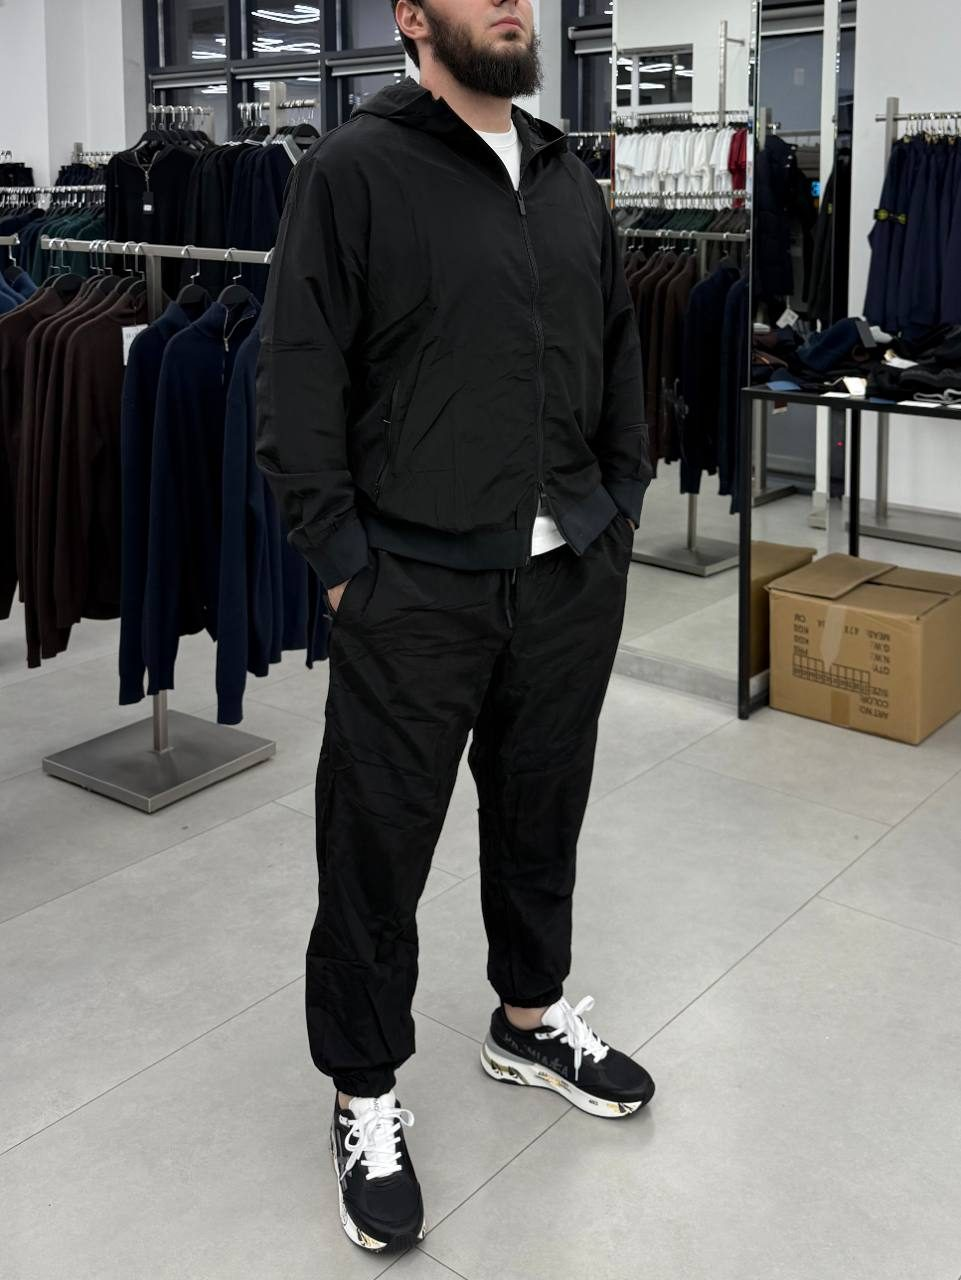
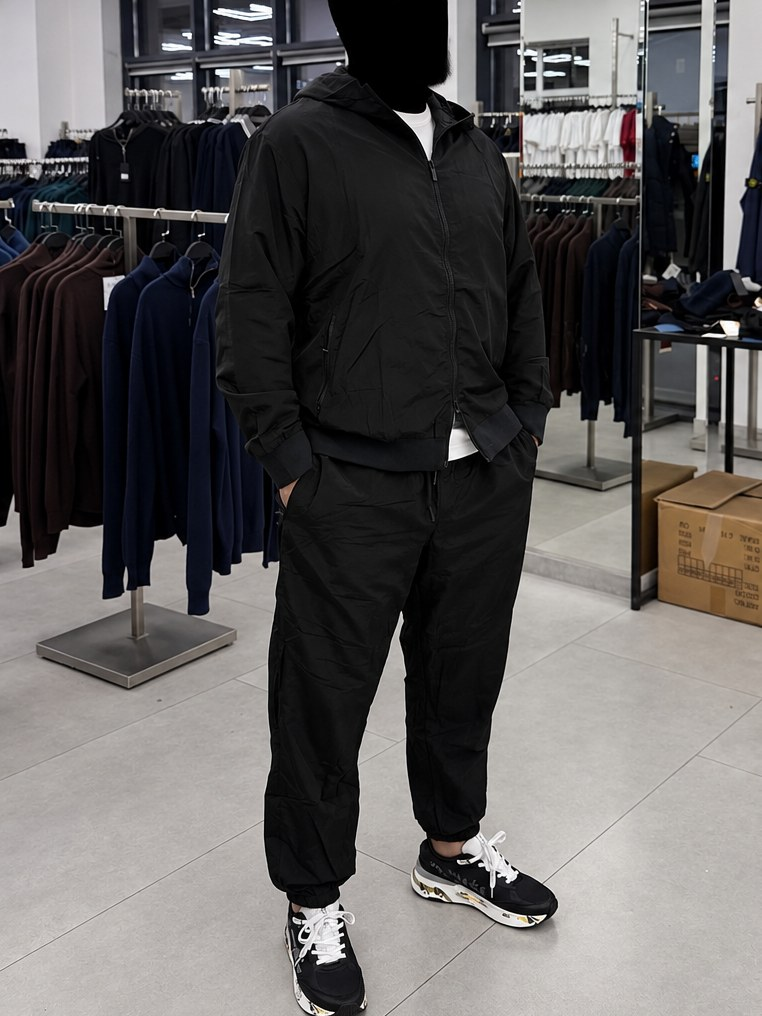
Орнамент: картинка на весь первый экран, плавный переход в ковёр; новые фото ветровок
Claude-Session: https://claude.ai/code/session_019e3KwqQKVdkAj9pLUxRiRK

diff --git a/index.html b/index.html
@@ -335,14 +335,27 @@ html.orn.orn-dark{background:#0b0b0d}
 /* всё, что ниже примерочной, лежит на узоре — светлый текст */
 /* сцена (стиль «Орнамент»): камера по общему кадру */
 .scene{display:none}
-html.orn .scene{display:block;margin-top:24px}
-.sc-stage{position:relative;max-width:min(520px,calc(72dvh * 3 / 4));margin:0 auto;aspect-ratio:3/4;border-radius:22px;overflow:hidden;background:#1a1a1c;touch-action:pan-y;user-select:none;-webkit-user-select:none;cursor:grab;isolation:isolate;box-shadow:0 20px 60px rgba(0,0,0,.45)}
+html.orn body{position:relative}
+html.orn .scene{display:block;position:absolute;left:0;right:0;top:0;height:calc(100svh + var(--fade));z-index:0;--fade:240px}
+html.orn .sc-space{height:var(--sp,60vh)}
+html.orn .demo,html.orn .install,html.orn header,html.orn .styles,html.orn .hero{position:relative;z-index:2}
+html.orn .demo{background:rgba(0,0,0,.25);color:rgba(255,255,255,.75);border-bottom-color:rgba(255,255,255,.12);backdrop-filter:blur(8px);-webkit-backdrop-filter:blur(8px)}
+html.orn .install{background:rgba(0,0,0,.22);backdrop-filter:blur(10px);-webkit-backdrop-filter:blur(10px)}
+html.orn .install,html.orn header,html.orn .hero{--ink:#fff;--mute:rgba(255,255,255,.82);--soft:rgba(255,255,255,.16);color:#fff}
+html.orn .install .get{background:#fff;color:#111}
+html.orn .badge{background:#fff;color:#111}
+html.orn .hero,html.orn .styles{pointer-events:none}html.orn .styles button{pointer-events:auto}
+html.orn .hero h1,html.orn .hero p{text-shadow:0 2px 20px rgba(0,0,0,.35)}
+html.orn .seg{background:rgba(0,0,0,.25);backdrop-filter:blur(10px);-webkit-backdrop-filter:blur(10px)}
+html.orn .seg button{color:rgba(255,255,255,.85)}html.orn .seg button[aria-pressed=true]{color:#111}
+.sc-stage{position:absolute;inset:0;overflow:hidden;background:linear-gradient(#5c7096,#4a4434 60%,#2c2820);touch-action:pan-y;user-select:none;-webkit-user-select:none;cursor:grab;isolation:isolate;outline:none;
+  -webkit-mask-image:linear-gradient(to bottom,#000 calc(100% - var(--fade)),transparent);mask-image:linear-gradient(to bottom,#000 calc(100% - var(--fade)),transparent)}
 .sc-stage:active{cursor:grabbing}
 .sc-stage img{position:absolute;left:0;top:0;max-width:none;transform-origin:0 0;will-change:transform;opacity:0;transition:opacity .5s;pointer-events:none;-webkit-user-drag:none}
 .sc-stage img.ok{opacity:1}
 .sc-stage .cradle .bar,.sc-stage .cradle i::before{background:rgba(255,255,255,.4)}.sc-stage .cradle i::after{background:#fff}.sc-stage .cradle em{color:#aaa}
-.sc-stage::after{content:"";position:absolute;left:0;right:0;bottom:0;height:46%;background:linear-gradient(to top,rgba(0,0,0,.78),rgba(0,0,0,0));pointer-events:none;z-index:1}
-.sc-info{position:absolute;left:0;right:0;bottom:0;z-index:2;padding:0 18px 18px;color:#fff;display:flex;align-items:flex-end;gap:12px}
+.sc-stage::after{content:"";position:absolute;left:0;right:0;bottom:0;height:calc(38svh + var(--fade));background:linear-gradient(to top,rgba(0,0,0,.6),rgba(0,0,0,.6) var(--fade),rgba(0,0,0,0));pointer-events:none;z-index:1}
+.sc-info{position:absolute;left:0;right:0;bottom:var(--fade);z-index:2;padding:0 max(20px,calc((100% - 1160px)/2)) 22px;color:#fff;display:flex;align-items:flex-end;gap:12px}
 .sc-info .t{flex:1;min-width:0}
 .sc-info small{display:block;font-size:12px;font-weight:600;letter-spacing:.08em;text-transform:uppercase;color:rgba(255,255,255,.7)}
 .sc-info b{display:block;font-size:19px;font-weight:700;letter-spacing:-.02em;margin-top:3px;line-height:1.2}
@@ -350,18 +363,17 @@ html.orn .scene{display:block;margin-top:24px}
 .sc-info .t>*{transition:opacity .25s,transform .35s var(--ease)}
 .sc-info.swap .t>*{opacity:0;transform:translateY(6px)}
 .sc-go{flex:none;height:44px;padding:0 16px;border-radius:22px;background:#fff;color:#111;font-size:14px;font-weight:600;display:flex;align-items:center;gap:6px;white-space:nowrap}
-.sc-dots{position:absolute;top:14px;left:0;right:0;z-index:2;display:flex;justify-content:center;gap:6px;pointer-events:none}
+.sc-dots{position:absolute;bottom:calc(var(--fade) + 104px);left:0;right:0;z-index:2;display:flex;justify-content:center;gap:6px;pointer-events:none}
 .sc-dots i{width:6px;height:6px;border-radius:3px;background:rgba(255,255,255,.45);transition:width .35s var(--ease),background-color .35s}
 .sc-dots i.on{width:18px;background:#fff}
-.sc-arr{position:absolute;top:50%;z-index:2;width:44px;height:44px;margin-top:-22px;border-radius:50%;background:rgba(0,0,0,.35);backdrop-filter:blur(8px);-webkit-backdrop-filter:blur(8px);color:#fff;display:flex;align-items:center;justify-content:center;transition:opacity .3s}
-.sc-arr.l{left:10px}.sc-arr.r{right:10px}
+.sc-arr{position:absolute;top:calc((100% - var(--fade)) * .55);z-index:2;width:44px;height:44px;margin-top:-22px;border-radius:50%;background:rgba(0,0,0,.35);backdrop-filter:blur(8px);-webkit-backdrop-filter:blur(8px);color:#fff;display:flex;align-items:center;justify-content:center;transition:opacity .3s}
+.sc-arr.l{left:max(10px,calc((100% - 1200px)/2))}.sc-arr.r{right:max(10px,calc((100% - 1200px)/2))}
 .sc-arr[disabled]{opacity:0;pointer-events:none}
-.sc-hint{position:absolute;left:50%;top:44%;z-index:3;transform:translate(-50%,-50%);display:flex;flex-direction:column;align-items:center;gap:10px;color:#fff;pointer-events:none;transition:opacity .4s}
+.sc-hint{position:absolute;left:50%;top:calc((100% - var(--fade)) * .62);z-index:3;transform:translate(-50%,-50%);display:flex;flex-direction:column;align-items:center;gap:10px;color:#fff;pointer-events:none;transition:opacity .4s}
 .sc-hint.off{opacity:0}
 .sc-hint .hand{width:58px;height:58px;border-radius:50%;background:rgba(255,255,255,.18);backdrop-filter:blur(8px);-webkit-backdrop-filter:blur(8px);display:flex;align-items:center;justify-content:center;animation:scSwipe 1.8s var(--ease) infinite}
 .sc-hint em{font-style:normal;font-size:13px;font-weight:600;padding:6px 12px;border-radius:14px;background:rgba(0,0,0,.45);backdrop-filter:blur(8px);-webkit-backdrop-filter:blur(8px)}
 @keyframes scSwipe{0%{transform:translateX(34px);opacity:0}15%{opacity:1}70%{transform:translateX(-34px);opacity:1}100%{transform:translateX(-34px);opacity:0}}
-.sc-under{text-align:center;font-size:13px;color:var(--mute);margin:12px 0 0}
 @media(prefers-reduced-motion:reduce){.sc-hint .hand{animation:none}}
 /* переключатель стиля */
 .styles{display:flex;justify-content:center;padding:10px 0 0}
@@ -412,6 +424,7 @@ footer{border-top:1px solid var(--line);padding:28px 0 40px;font-size:13px;color
   </section>
   <section class="runway" id="runway" aria-label="Примерочная"></section>
   <section class="scene" id="scene" aria-label="Образы на фото"></section>
+  <div class="sc-space" aria-hidden="true"></div>
   <div class="promos" id="promos"></div>
   <div class="tabs" id="tabs" role="group" aria-label="Категории"></div>
   <div class="feed" id="feed"></div>
@@ -542,7 +555,7 @@ footer{border-top:1px solid var(--line);padding:28px 0 40px;font-size:13px;color
   <button class="btn press" data-close>Понятно</button>
 </dialog>
 
-<script src="products.js?v=1794918493"></script>
+<script src="products.js?v=1794918790"></script>
 <script>
 (function () {
   /* ---------- стиль сайта: «Светлый» (манекен) / «Орнамент» (узор на всю страницу) ---------- */
@@ -554,19 +567,18 @@ footer{border-top:1px solid var(--line);padding:28px 0 40px;font-size:13px;color
       ticking = false;
       if (!root.classList.contains('orn')) return;
       // линия перехода — сразу под сценой: пока парни на экране, страница белая, дальше снизу поднимается узор
-      var anchor = document.querySelector('.sc-under') || document.querySelector('.hero');
-      var line = anchor ? anchor.getBoundingClientRect().bottom + 24 : window.innerHeight;
-      bgLayer.style.setProperty('--l', Math.round(line + 160) + 'px');
-      var dark = line < 40;
-      if (dark !== root.classList.contains('orn-dark')) { root.classList.toggle('orn-dark', dark); if (tc) tc.content = dark ? '#0b0b0d' : '#ffffff'; }
+      var sc = document.querySelector('#scene'), r = sc.getBoundingClientRect();
+      var fade = parseFloat(getComputedStyle(sc).getPropertyValue('--fade')) || 240;
+      // узор полностью проявлен ещё до того, как картинка начинает растворяться — белого между ними нет
+      bgLayer.style.setProperty('--l', Math.round(r.bottom - fade - 220 + 160) + 'px');
       var need = window.innerHeight + document.documentElement.scrollHeight * 0.35 + 400;
       if (Math.abs(tile.offsetHeight - need) > 200) tile.style.height = need + 'px';
       if (!still) tile.style.transform = 'translate3d(0,' + (-window.scrollY * 0.35) + 'px,0)';
     }
     function setStyle(st, save) {
       var orn = st === 'orn';
-      root.classList.toggle('orn', orn); root.classList.remove('orn-dark');
-      if (tc) tc.content = '#ffffff';
+      root.classList.toggle('orn', orn); root.classList.toggle('orn-dark', orn);
+      if (tc) tc.content = orn ? '#0b0b0d' : '#ffffff';
       [].forEach.call(document.querySelectorAll('[data-style]'), function (b) { b.setAttribute('aria-pressed', String(b.dataset.style === st)); });
       try { if (save) localStorage.setItem('ar-style', st); } catch (e) {}
       paint();
@@ -1366,28 +1378,44 @@ footer{border-top:1px solid var(--line);padding:28px 0 40px;font-size:13px;color
       '<button class="sc-arr r press" aria-label="Следующий образ">' + chev('M9 5l7 7-7 7') + '</button>' +
       '<div class="sc-hint' + (seen ? ' off' : '') + '" aria-hidden="true"><span class="hand"><svg width="26" height="26" viewBox="0 0 24 24" fill="none" stroke="#fff" stroke-width="1.8" stroke-linecap="round" stroke-linejoin="round"><path d="M9 11V5.5a1.5 1.5 0 0 1 3 0V10m0-1.5a1.5 1.5 0 0 1 3 0V11m0-1a1.5 1.5 0 0 1 3 0v4.5a6 6 0 0 1-6 6h-.6a6 6 0 0 1-4.6-2.2L4.5 15a1.6 1.6 0 0 1 2.4-2.1L9 15"/></svg></span><em>Листайте влево</em></div>' +
       '<div class="sc-info"><span class="t"><small></small><b></b><span class="pr"></span></span><a class="sc-go press">Образ ' + chev('M9 5l7 7-7 7') + '</a></div>' +
-      '</div><p class="sc-under">← Свайп — следующий образ</p>';
+      '</div>';
     var st = host.querySelector('.sc-stage'), img = st.querySelector('img'), info = st.querySelector('.sc-info');
     var dots = st.querySelectorAll('.sc-dots i'), aL = st.querySelector('.sc-arr.l'), aR = st.querySelector('.sc-arr.r'), hintEl = st.querySelector('.sc-hint');
     markCached(st);
-    // камера между людьми: pos — дробный номер человека, параметры плавно смешиваются
-    function cam(p) {
-      var a = Math.max(0, Math.min(n - 1, Math.floor(p))), b = Math.min(n - 1, a + 1), t = Math.max(0, Math.min(1, p - a));
-      if (p < 0) { a = b = 0; t = 0; } if (p > n - 1) { a = b = n - 1; t = 0; }
-      var A = ppl[a], B = ppl[b], e = t;
-      var cx = A.cx + (B.cx - A.cx) * e, cy = A.cy + (B.cy - A.cy) * e;
-      // в середине пути камера чуть отъезжает — как при панораме
-      var h = A.h + (B.h - A.h) * e + Math.sin(Math.PI * e) * 90;
-      return { cx: cx, cy: cy, h: Math.min(h, SC.h) };
+    // где на экране свободно (между заголовком и подписью) — туда камера ставит человека целиком
+    var band = { t: 0.35, b: 0.8 }, hero = document.querySelector('.hero'), space = document.querySelector('.sc-space');
+    function measure() {
+      var V = st.clientHeight - fadePx(); if (!V) return;
+      var top0 = host.getBoundingClientRect().top;
+      band.t = Math.min(0.5, (hero.getBoundingClientRect().bottom - top0 + 12) / V);
+      band.b = Math.max(band.t + 0.3, (info.getBoundingClientRect().top - top0 - 34) / V);
+      // контент страницы начинается там, где картинка уже растворяется в ковре
+      var want = host.offsetTop + V + 24 - space.offsetTop;
+      space.style.setProperty('--sp', Math.max(0, Math.round(want)) + 'px');
+    }
+    function fadePx() { return parseFloat(getComputedStyle(host).getPropertyValue('--fade')) || 0; }
+    function frame(k, W, V) {
+      var q = ppl[k], tall = q.bot - q.top, h = tall / ((band.b - band.t) * 0.94);
+      h = Math.min(h, SC.h, SC.w * V / W);
+      var cy = q.top - (band.t + (band.b - band.t) * 0.03) * h + h / 2;
+      return { cx: q.cx, cy: cy, h: h };
+    }
+    function cam(p, W, V) {
+      var a = Math.max(0, Math.min(n - 1, Math.floor(p))), b = Math.min(n - 1, a + 1), e = Math.max(0, Math.min(1, p - a));
+      var A = frame(a, W, V), B = frame(b, W, V);
+      var hh = A.h + (B.h - A.h) * e + Math.sin(Math.PI * e) * 70;
+      return { cx: A.cx + (B.cx - A.cx) * e, cy: A.cy + (B.cy - A.cy) * e, h: Math.min(hh, SC.h, SC.w * V / W) };
     }
     function draw() {
-      var W = st.clientWidth, H = st.clientHeight; if (!W) return;
+      var W = st.clientWidth, V = st.clientHeight - fadePx(), H = st.clientHeight; if (!W || V <= 0) return;
       var p = pos, over = 0;
       if (p < 0) { over = p; p = 0; } else if (p > n - 1) { over = p - (n - 1); p = n - 1; }
-      var c = cam(p), s = H / c.h;
-      var x = W / 2 - c.cx * s, y = H / 2 - c.cy * s;
-      x = Math.min(0, Math.max(W - SC.w * s, x)); y = Math.min(0, Math.max(H - SC.h * s, y));
-      x -= over * W * 0.25;   // резинка на краях
+      var c = cam(p, W, V), s = V / c.h;
+      if (SC.h * s < V) s = V / SC.h;            // видимая часть экрана всегда закрыта картинкой
+      if (SC.w * s < W) s = W / SC.w;
+      var x = W / 2 - c.cx * s, y = V / 2 - c.cy * s;
+      x = Math.min(0, Math.max(W - SC.w * s, x)); y = Math.min(0, Math.max(V - SC.h * s, y));
+      x -= over * W * 0.25;
       img.style.transform = 'translate3d(' + x.toFixed(1) + 'px,' + y.toFixed(1) + 'px,0) scale(' + s.toFixed(4) + ')';
     }
     function label(k) {
@@ -1448,9 +1476,10 @@ footer{border-top:1px solid var(--line);padding:28px 0 40px;font-size:13px;color
     st.addEventListener('pointerdown', function (e) { if (e.pointerType !== 'mouse' || e.target.closest('a,button')) return; mouse = true; down(e.clientX, e.clientY); });
     window.addEventListener('pointermove', function (e) { if (mouse) move(e.clientX, e.clientY, e); });
     window.addEventListener('pointerup', function () { if (mouse) { mouse = false; up(); } });
-    window.addEventListener('resize', draw);
-    img.addEventListener('load', draw);
-    label(0); draw();
+    function relayout() { measure(); draw(); }
+    window.addEventListener('resize', relayout);
+    img.addEventListener('load', relayout);
+    label(0); setTimeout(relayout, 0); relayout();
     // первый раз камера сама «подглядывает» к соседу — видно, что дальше есть ещё люди
     if (!seen && !(window.matchMedia && matchMedia('(prefers-reduced-motion: reduce)').matches)) {
       var peeked = false, io = 'IntersectionObserver' in window && new IntersectionObserver(function (es) {
@@ -1461,7 +1490,8 @@ footer{border-top:1px solid var(--line);padding:28px 0 40px;font-size:13px;color
       if (io) io.observe(st);
     }
     // при переключении стиля сцена появляется — пересчитать размеры
-    new MutationObserver(draw).observe(document.documentElement, { attributes: true, attributeFilter: ['class'] });
+    new MutationObserver(function () { setTimeout(relayout, 0); }).observe(document.documentElement, { attributes: true, attributeFilter: ['class'] });
+    var installEl = document.querySelector('.install'); if (installEl) new MutationObserver(relayout).observe(installEl, { attributes: true });
   })();
 
   /* ---------- примерочная: шторка, за которой меняется манекен ---------- */

diff --git a/products.js b/products.js
@@ -10,16 +10,16 @@ window.RUNWAY = [
 ];
 
 // Стиль «Орнамент»: общий кадр, камера наезжает на одного человека, свайп — к следующему.
-// cx, cy — центр человека на картинке (в пикселях исходника), h — высота кадра (меньше = ближе).
+// cx — центр человека по горизонтали, top/bot — макушка и подошвы (пиксели исходника).
 window.SCENE = {
-  img: 'img/scene-2.jpg', w: 1672, h: 941,
+  img: 'img/scene-2.jpg?v=3', w: 1672, h: 1561,
   people: [
-    { look: 'look-windbreaker', cx: 446, cy: 626, h: 680 },
-    { look: 'look-windbreaker-grey', cx: 610, cy: 700, h: 560 },
-    { look: 'look-suit', cx: 756, cy: 626, h: 680 },
-    { look: 'look-zipnavy', cx: 955, cy: 582, h: 600 },
-    { look: 'look-zipgrey', cx: 1078, cy: 730, h: 540 },
-    { look: 'look-horse', cx: 1214, cy: 637, h: 640 }
+    { look: 'look-windbreaker', cx: 446, top: 758, bot: 1198 },
+    { look: 'look-windbreaker-grey', cx: 610, top: 892, bot: 1212 },
+    { look: 'look-suit', cx: 756, top: 760, bot: 1165 },
+    { look: 'look-zipnavy', cx: 955, top: 746, bot: 1112 },
+    { look: 'look-zipgrey', cx: 1078, top: 936, bot: 1235 },
+    { look: 'look-horse', cx: 1214, top: 786, bot: 1168 }
   ]
 };
 
@@ -111,7 +111,7 @@ window.LOOKS = [
   {
     id: 'look-windbreaker',
     name: 'Чёрная ветровка',
-    photos: ['img/windbreaker-black-1.jpg'],
+    photos: ['img/windbreaker-black-1.jpg?v=2'],
     items: [
       { id: 'windbreaker-suit', color: 'Чёрный' },
       { id: 'sneakers-runner', color: 'Чёрный' }
@@ -120,7 +120,7 @@ window.LOOKS = [
   {
     id: 'look-windbreaker-grey',
     name: 'Графитовая ветровка',
-    photos: ['img/windbreaker-grey-1.jpg'],
+    photos: ['img/windbreaker-grey-1.jpg?v=2'],
     items: [
       { id: 'windbreaker-suit', color: 'Графитовый' },
       { id: 'sneakers-runner', color: 'Серый' }
@@ -404,7 +404,7 @@ window.PRODUCTS = [
       { name: 'Чёрный', hex: '#111214', photo: 0 },
       { name: 'Графитовый', hex: '#5A5F6B', photo: 1 }
     ],
-    photos: ['img/windbreaker-black-1.jpg', 'img/windbreaker-grey-1.jpg']
+    photos: ['img/windbreaker-black-1.jpg?v=2', 'img/windbreaker-grey-1.jpg?v=2']
   },
   {
     id: 'sneakers-runner',
@@ -418,6 +418,6 @@ window.PRODUCTS = [
       { name: 'Чёрный', hex: '#15161A', photo: 0 },
       { name: 'Серый', hex: '#8E9097', photo: 1 }
     ],
-    photos: ['img/windbreaker-black-1.jpg', 'img/windbreaker-grey-1.jpg']
+    photos: ['img/windbreaker-black-1.jpg?v=2', 'img/windbreaker-grey-1.jpg?v=2']
   }
 ];
